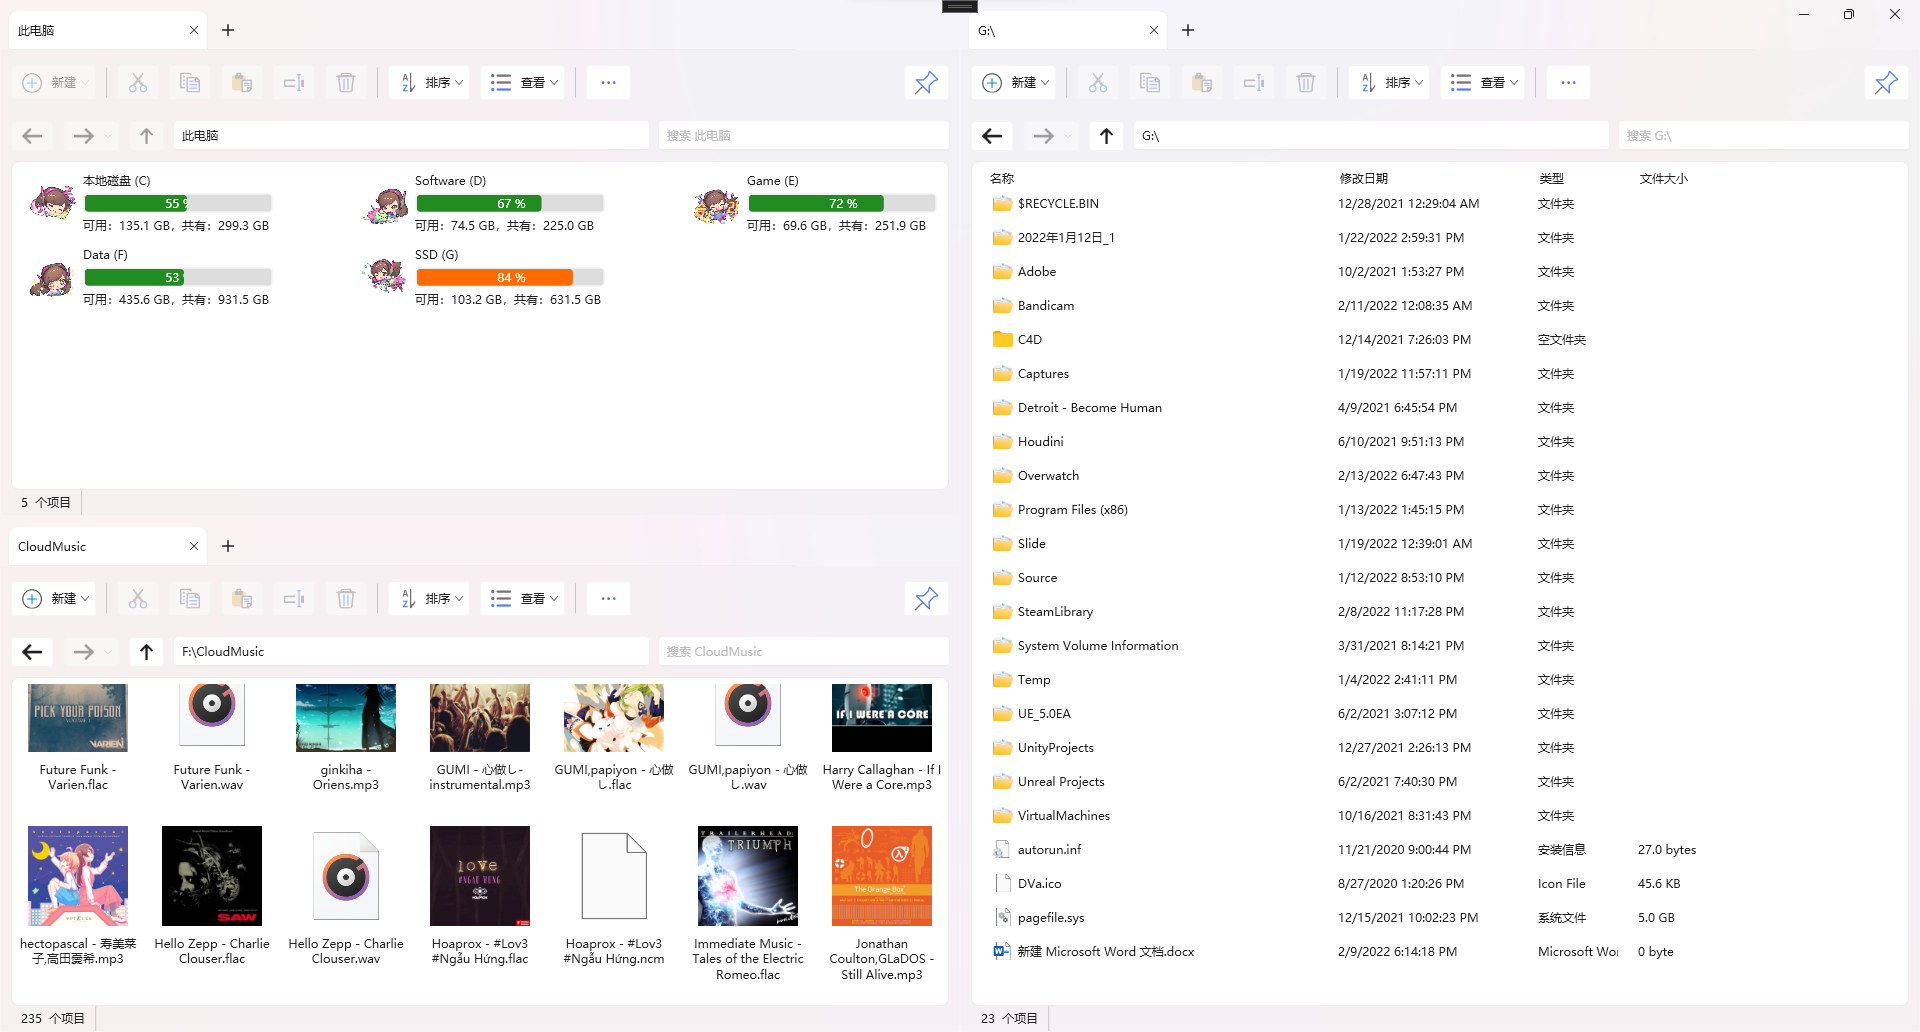
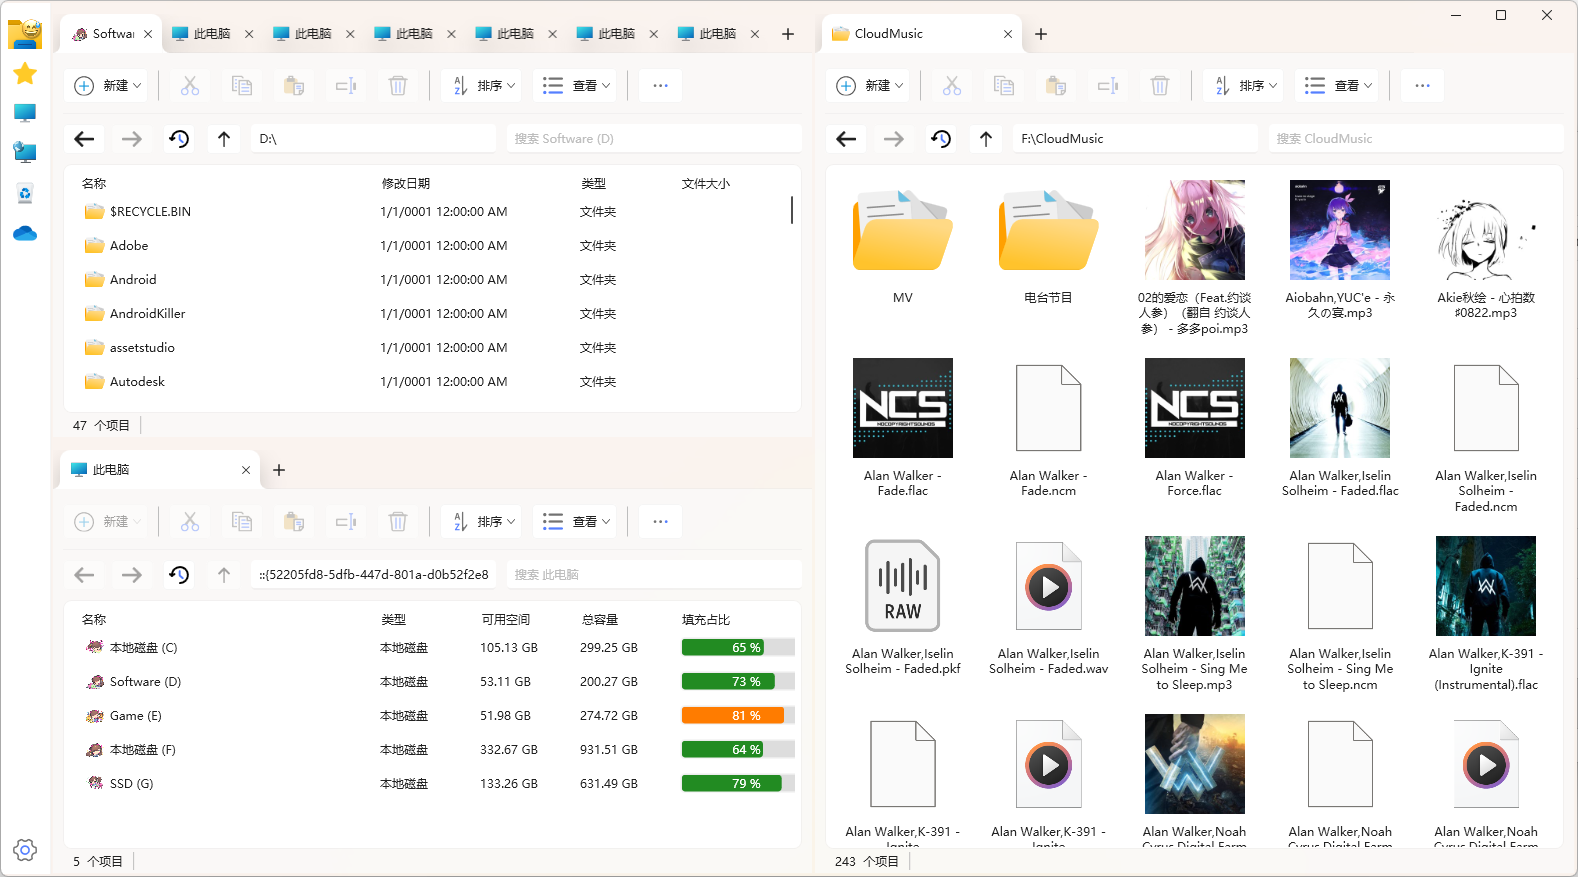
Update Readme.md and Images

diff --git a/Readme.md b/Readme.md
@@ -14,13 +14,19 @@ Some time ago, when I was working on Minecraft mod, I needed to switch frequentl
 
 ### ExplorerEx has the following features:
 
-* **Swift**. My standard is that a middle-end computer (such as i5 Series CPU or AMD CPU with the same performance) can open a folder within 500ms. Even a folder with a large number of files like C:\Windows\system32 (I just looked at it, there were 4778 files) still needs to be opened quickly.
+* **Swift.** My standard is that a middle-end computer (such as i5 Series CPU or AMD CPU with the same performance) can open a folder within 500ms. Even a folder with a large number of files like C:\Windows\system32 (I just looked at it, there were 4778 files) still needs to be opened quickly.
 
-* **Multi-Tabbed**. It supports dragging files onto tabs, copying, moving, creating shortcuts, etc. You can also drag a tab to split the screen, just like in Visual Studio Code.
+* **Multi-Tabbed.** It supports dragging files onto tabs, copying, moving, creating shortcuts, etc. You can also drag a tab to split the screen, just like in Visual Studio Code.
 
   ![SplitScreen](https://github.com/DearVa/ExplorerEx/blob/master/Images/SplitScreen.png)
 
-* **Super bookmarks**. Windows built-in file manager not only cannot comment and add files, but also has only one "quick access" column, which cannot be classified. ExplorerEx can collect folders and even files directly! You can also add tags and categories to facilitate search, just like the Microsoft Edge or Google Chorme!
+* **Fast preview.** You can hold Alt and point to a video, a music, a picture even a text file. Then a preview Window will show up, letting you to preview the content of it. You can scroll your mouse to fast forward and rewind.
+
+  ![FastPreview0](https://github.com/DearVa/ExplorerEx/blob/master/Images/FastPreview0.png)
+
+  ![FastPreview1](https://github.com/DearVa/ExplorerEx/blob/master/Images/FastPreview1.png)
+
+* **Super bookmarks.** Windows built-in file manager not only cannot comment and add files, but also has only one "quick access" column, which cannot be classified. ExplorerEx can collect folders and even files directly! You can also add tags and categories to facilitate search, just like the Microsoft Edge or Google Chorme!
 
   ![Explorer can't](https://github.com/DearVa/ExplorerEx/blob/master/Images/ExplorerCantAddFile.jpg)
 
@@ -35,18 +41,19 @@ Some time ago, when I was working on Minecraft mod, I needed to switch frequentl
 ### Road map
 #### Basic function development
 
-√ Basic UI design  
-√ List files  
-√ List disk drives  
-√ Get thumbnails  
-√ Multi-tab  
-√ Clipboard  
-√ File copy, cut, paste, recycle and delete  
-√ File list interaction  
-√ File rename  
-√ File drag&drop  
-√ Free split screen  
-√ Super bookmarks  
+✓ Basic UI design  
+✓ List files  
+✓ List disk drives  
+✓ Get thumbnails  
+✓ Multi-tab  
+✓ Clipboard  
+✓ File copy, cut, paste, recycle and delete  
+✓ File list interaction  
+✓ File rename  
+✓ File drag&drop  
+✓ Free split screen  
+✓ Super bookmarks  
+→ Fast preview  
 → File view switching  
 → zip support  
 → bitlocker support  
